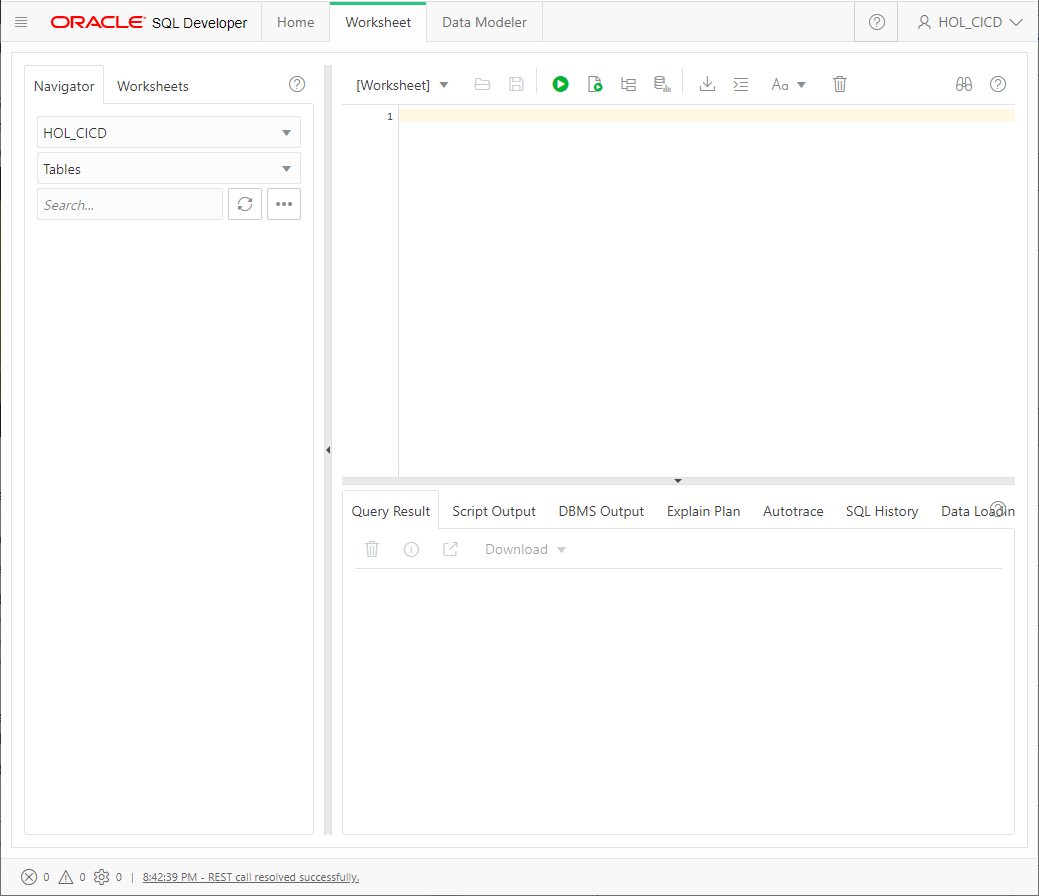
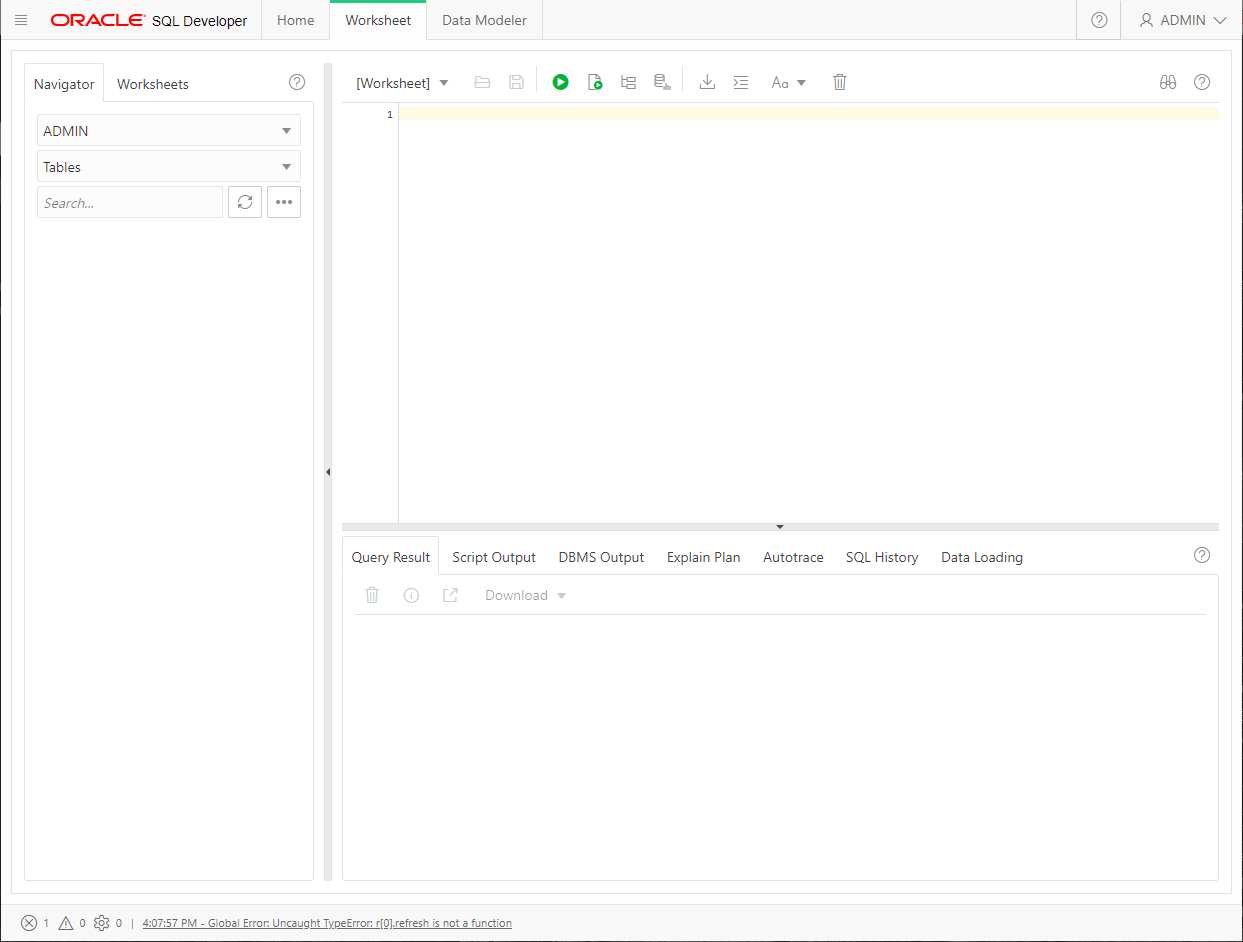
Moved SqlDevWeb section up and changed login to Admin

diff --git a/README.md b/README.md
@@ -77,12 +77,19 @@ This password is for the .zip file and not your database.
 oci db autonomous-database generate-wallet --autonomous-database-id ${DB_OCID} --password Pw4ZipFile --file ~/Wallet_MyAtpDb.zip
 ```
 
+Click the "Oracle Cloud" logo to return to the dashboard.
+
 Later, after everything is setup, you will use SQLDeveloper Web to access your database.  
-Run the following command and save the URL for later.
+Run the following command in the Cloud Shell.
 ```
 oci db autonomous-database get --autonomous-database-id $DB_OCID --query 'data."connection-urls"."sql-dev-web-url"' --raw-output
 ```
-Click the "Oracle Cloud" logo to return to the dashboard.
+1. Copy the Url
+1. Open a new browser tab
+1. Paste in the URL to open SQLDeveloper Web.
+   ![](images/sqlDevWebLogon.png)  
+1. Sign in using the admin user and password for your database.
+   ![](images/sqlDevWeb.png)
    
 ## Create a Compute instance
 1. Click "Create a VM instance" in the Compute box.
@@ -229,17 +236,10 @@ sudo yum install -y sqlcl
 alias sql="/opt/oracle/sqlcl/bin/sql"
 sql -v
 ```
-
-### Use SQLcl to create the database schemas
+Use SQLcl to create the database schemas
 ```
 sql admin/notMyPassword@MyAtpDb_TP @create_schema.sql
 ```
-
-## Open a new browser tab and go to the SQLDeveloper Web URL you saved earlier.
-   ![](images/sqlDevWebLogon.png)  
-
-Sign in using the schema and password you just created.
-   ![](images/sqlDevWeb.png)
 
 ### Install Liquibase
 ```
